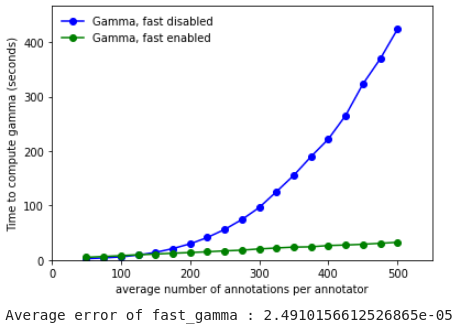
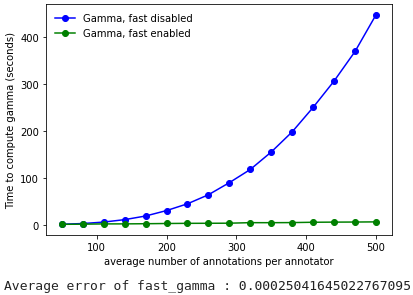
documentation for fast-gamma with new performance gains

Changed region(s): [[0.0, 0.0, 0.9588, 0.9153], [0.0, 0.9458, 0.5521, 1.0], [0.5811, 0.9458, 1.0, 1.0]]

diff --git a/docs/source/performance.rst b/docs/source/performance.rst
@@ -43,24 +43,7 @@ with continua generated specifically to mess with the algorithm.
 
 It uses the fact that alignments are made using locality of annotations, so it is only precise with a dissimilarity that
 mainly takes positionning into account. Results are still good with a combined categorical dissimilarity where
-math:`\alpha = 2 \times \beta`.
-
-Here are the performance comparisons between the two algorithms :
-
-.. figure:: images/time2annotators.png
-  :scale: 70%
-  :alt: time to compute gamma (8 CPUs, 2 annotators)
-  :align: right
-
-  **2 annotators**
-
-.. figure:: images/time3annotators.png
-  :scale: 70%
-  :alt: time to compute gamma (8 CPUs, 3 annotators)
-  :align: left
-
-  **3 annotators**
-
+:math:`\alpha = 2 \times \beta`.
 
 The fast gamma algorithm uses some sort of *"windowing"* of the continuum, and we have determined an approximation of
 its computational complexity, with :math:`w` the number of annotation per annotator in a window :
@@ -70,9 +53,12 @@ its computational complexity, with :math:`w` the number of annotation per annota
 
     C(N, n, p) = N \times (\frac{n}{w} \times (f \times (w + s)^p + D(n, p, w, s))
 
-With :math:`D` an additional complexity per window that we will not detail here, and
-:math:`f` the "numba factor", i.e the gain of speed obtained by using compiled numba functions, that we have
-estimated.
+With :
+
+- :math:`D` an additional complexity per window that we will not detail here.
+- :math:`f` the *"numba factor"*, i.e the gain of speed obtained by using compiled numba functions, that we have
+  estimated.
+- :math:`s` the *"additionnal window size"*, which is higher when the continuum has lots of overlapping.
 
 This becomes a lot more interesting when the amount of annotations grows. One important thing to notice is that
 this complexity can be minimized with the right window size.
@@ -84,16 +70,30 @@ this complexity can be minimized with the right window size.
   **This is the look of the time to compute fast-gamma to the size of the windows**. Thus, before starting to compute
   fast-gamma, the algorithm determines the optimal window size by sampling the complexity function.
 
+Here are the performance comparisons between the two algorithms :
 
+.. figure:: images/time2annotators.png
+  :scale: 72%
+  :alt: time to compute gamma (8 CPUs, 2 annotators)
+  :align: right
 
+  **2 annotators**
 
+.. figure:: images/time3annotators.png
+  :scale: 72%
+  :alt: time to compute gamma (8 CPUs, 3 annotators)
+  :align: left
+
+  **3 annotators**
+
+The gain in computation time is incredibly interesting and we strongly advise to use the fast-gamma every time.
 
 As for the precision of the fast gamma, we have not yet found a proof of its
 accuracy, but we have reasons to believe that if the overlapping of the annotations from
 a single annotator is limited, the fast-gamma has the exact same value as the gamma.
 
 The algorithm used by fast-gamma assumes that for three annotation segments :math:`A`, :math:`B` and :math:`C`,
-if :math:`A < B < C` (alphanumerical order), then :math:`d_{pos}(A, B) < d_pos(A, C)`. It is however not true in
+if :math:`A < B < C` (alphanumerical order), then :math:`d_{pos}(A, B) < d_{pos}(A, C)`. It is however not true in
 general, and especially not when units overlap a lot.
 
 This is confirmed in some extent by measures :
